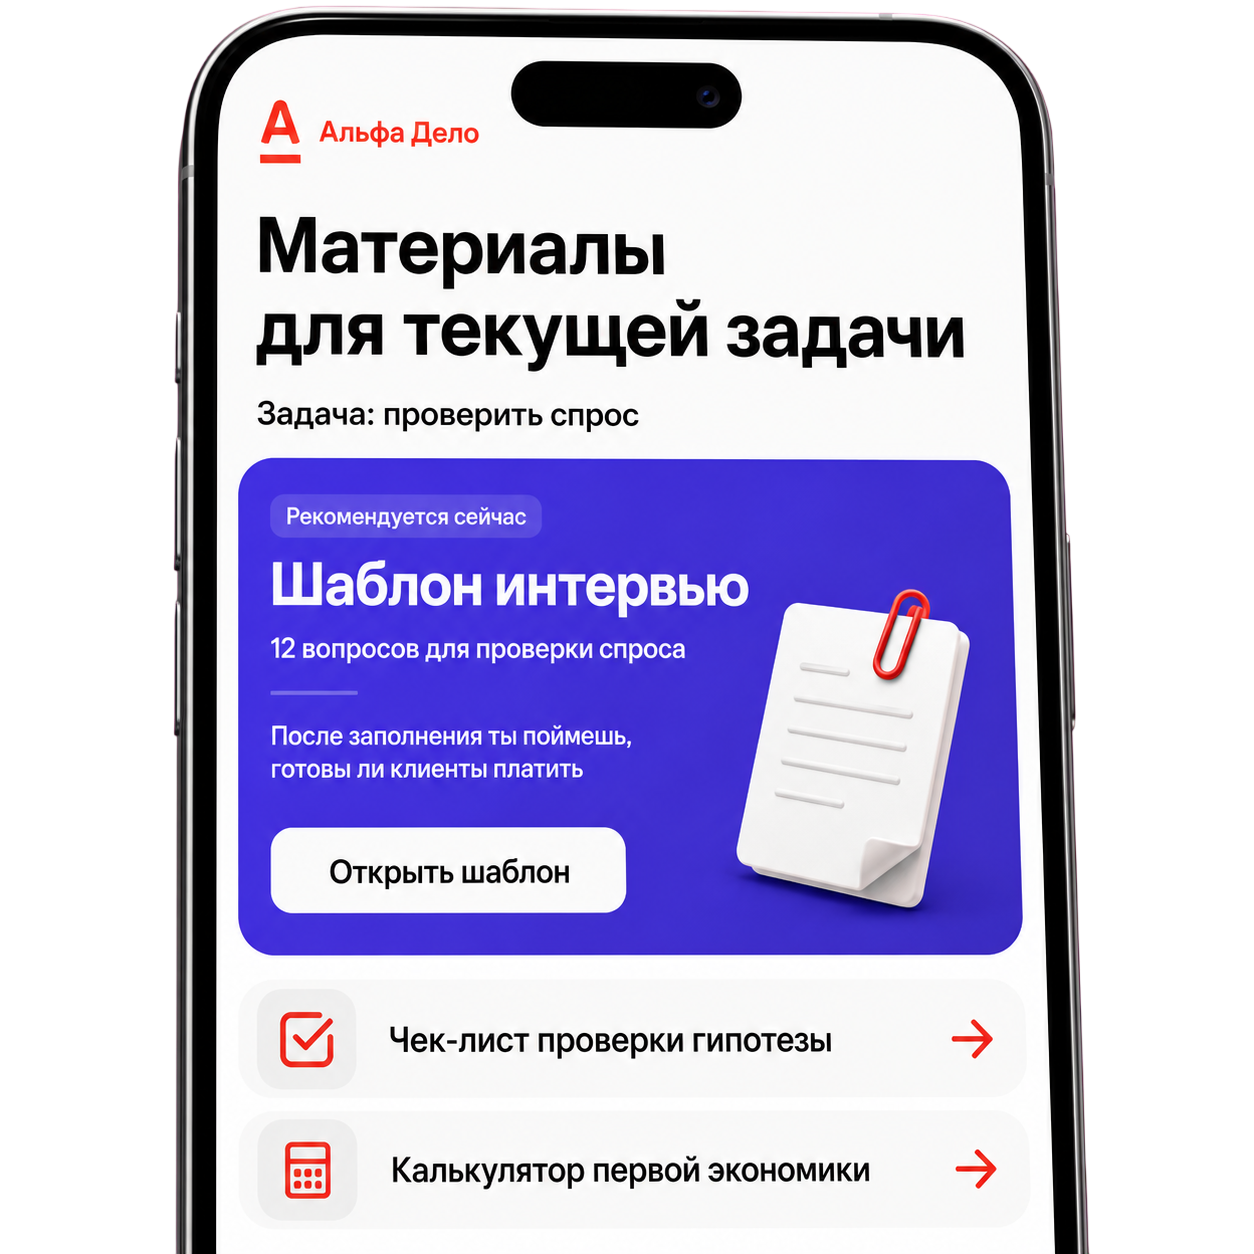
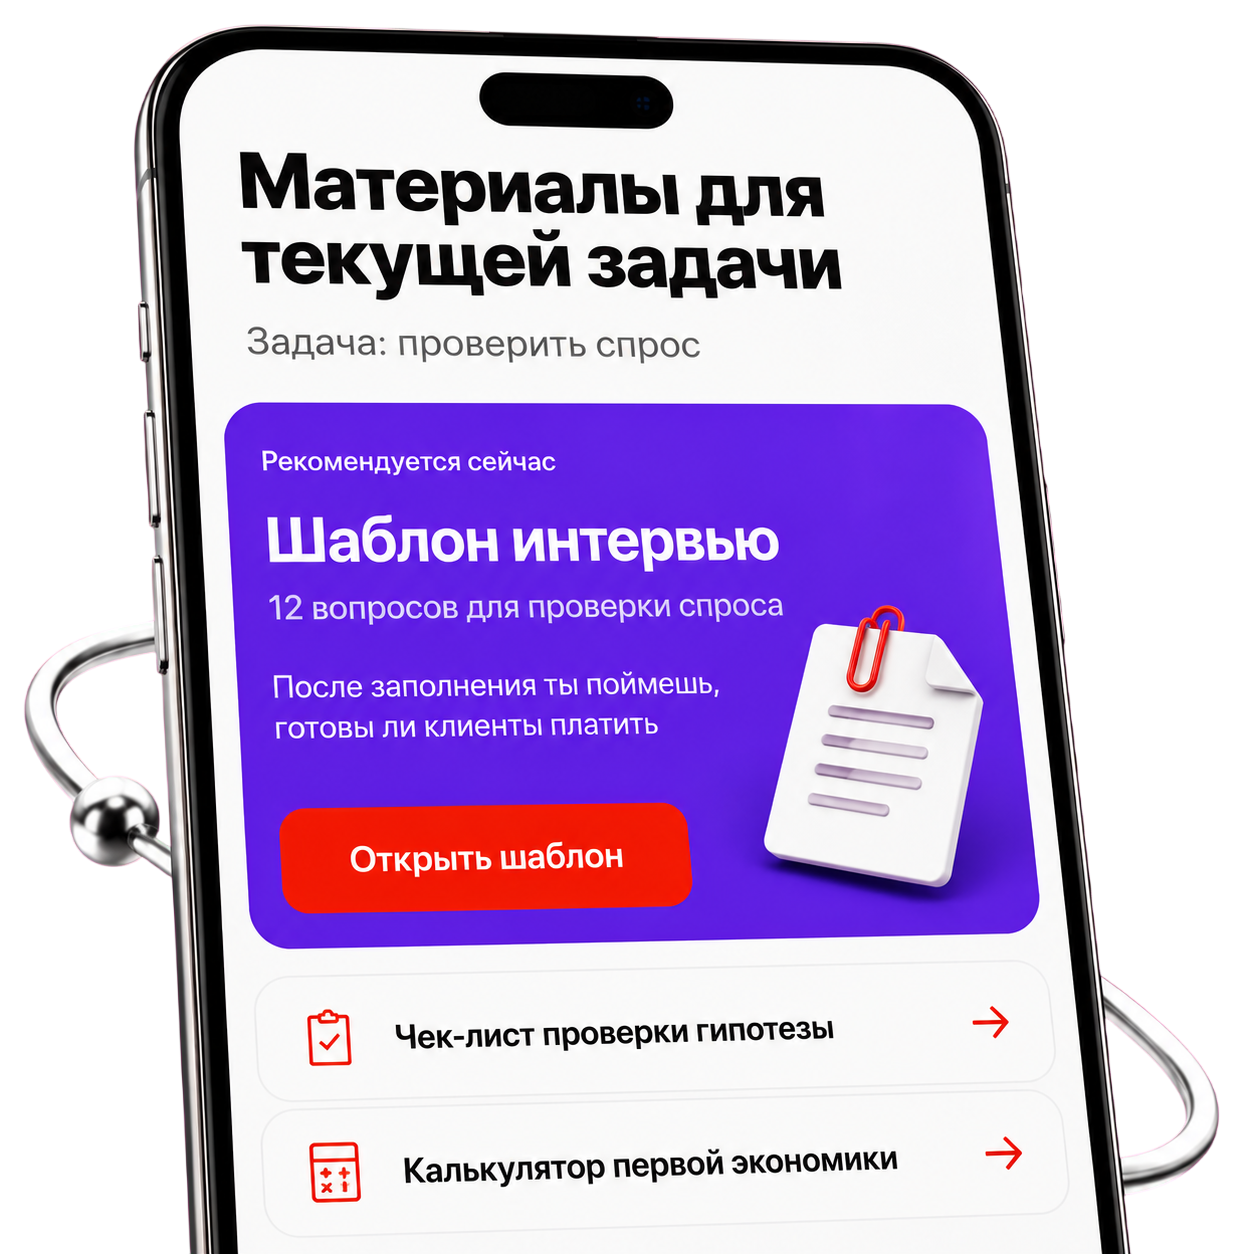
Обновлены мокапы и ссылка на команду

diff --git a/src/components/layout/Header.tsx b/src/components/layout/Header.tsx
@@ -24,7 +24,7 @@ export function Header() {
           ))}
         </nav>
 
-        <a href="#scenario" className="hidden h-11 items-center rounded-[12px] bg-white px-5 text-[14px] font-bold text-black transition-transform hover:-translate-y-0.5 laptop:inline-flex">Собрать маршрут</a>
+        <a href="https://directstep.github.io/concept" className="hidden h-11 items-center rounded-[12px] bg-white px-5 text-[14px] font-bold text-black transition-transform hover:-translate-y-0.5 laptop:inline-flex">Собрать маршрут</a>
 
         <button type="button" aria-label={menuOpen ? "Закрыть меню" : "Открыть меню"} aria-expanded={menuOpen} onClick={() => setMenuOpen((open) => !open)} className="inline-flex h-11 w-11 items-center justify-center rounded-full bg-white text-black focus-visible:outline-2 focus-visible:outline-offset-2 focus-visible:outline-white laptop:hidden">
           {menuOpen ? <X size={21} /> : <Menu size={21} />}
@@ -37,7 +37,7 @@ export function Header() {
             {navLinks.map((link) => (
               <a key={link.href} href={link.href} onClick={() => setMenuOpen(false)} className="rounded-xl px-3 py-3 text-[15px] font-semibold hover:bg-white/10">{link.label}</a>
             ))}
-            <a href="#scenario" onClick={() => setMenuOpen(false)} className="mt-2 flex h-12 items-center justify-center rounded-[12px] bg-white text-[14px] font-bold text-black">Собрать маршрут</a>
+            <a href="https://directstep.github.io/concept" onClick={() => setMenuOpen(false)} className="mt-2 flex h-12 items-center justify-center rounded-[12px] bg-white text-[14px] font-bold text-black">Собрать маршрут</a>
           </Container>
         </div>
       )}

diff --git a/src/components/cta/FinalCta.tsx b/src/components/cta/FinalCta.tsx
@@ -12,7 +12,7 @@ export function FinalCta() {
             <p className="text-[13px] font-bold uppercase tracking-[0.08em] text-future-green">Альфа-Дело</p>
             <h2 className="mt-4 text-[44px] font-bold leading-[0.92] tracking-[-0.055em] sm:text-[62px] laptop:text-[82px]">Есть идея?<br />Пора в дело.</h2>
             <p className="mt-6 max-w-[540px] text-[17px] leading-7 text-white/75">Ответьте на несколько вопросов и получите первый рабочий маршрут — от задачи до конкретного действия.</p>
-            <a href="#scenario" className="mt-8 inline-flex w-fit items-center gap-3 rounded-full bg-future-green px-6 py-4 text-[15px] font-bold text-black transition-transform hover:-translate-y-1">
+            <a href="https://directstep.github.io/concept" className="mt-8 inline-flex w-fit items-center gap-3 rounded-full bg-future-green px-6 py-4 text-[15px] font-bold text-black transition-transform hover:-translate-y-1">
               Собрать маршрут <ArrowUpRight size={18} />
             </a>
           </div>

diff --git a/src/components/hero/HeroSection.tsx b/src/components/hero/HeroSection.tsx
@@ -28,7 +28,7 @@ export function HeroSection() {
               Выбери задачу, получи понятный маршрут и переходи от идеи к первым продажам вместе с Альфой.
             </p>
             <div className="mt-8 flex flex-col gap-3 sm:flex-row">
-              <a href="#scenario" className="inline-flex h-13 items-center justify-center rounded-[14px] bg-future-green px-6 text-[14px] font-bold text-black transition-transform hover:-translate-y-0.5">Собрать свой маршрут</a>
+              <a href="https://directstep.github.io/concept" className="inline-flex h-13 items-center justify-center rounded-[14px] bg-future-green px-6 text-[14px] font-bold text-black transition-transform hover:-translate-y-0.5">Собрать свой маршрут</a>
               <a href="#how-it-works" className="inline-flex h-13 items-center justify-center gap-2 rounded-[14px] border border-white/50 px-6 text-[14px] font-bold text-white transition-colors hover:bg-white hover:text-black">Как это работает <ArrowDownRight size={18} /></a>
             </div>
           </div>

diff --git a/src/components/showcase/AppShowcaseCarousel.tsx b/src/components/showcase/AppShowcaseCarousel.tsx
@@ -72,7 +72,7 @@ export function AppShowcaseCarousel() {
               alt={`Интерфейс прототипа: ${active.label}`}
               width={active.imageWidth}
               height={active.imageHeight}
-              className={`relative z-10 max-h-[500px] w-full object-contain drop-shadow-[0_28px_45px_rgba(0,0,0,0.2)] ${active.id === "passport" ? "translate-y-9 rotate-[-2deg]" : active.id === "knowledge" ? "translate-y-9" : ""}`}
+              className={`relative z-10 max-h-[500px] w-full object-contain drop-shadow-[0_28px_45px_rgba(0,0,0,0.2)] ${active.id === "passport" || active.id === "knowledge" ? "translate-y-9" : ""}`}
             />
           </div>
         </div>